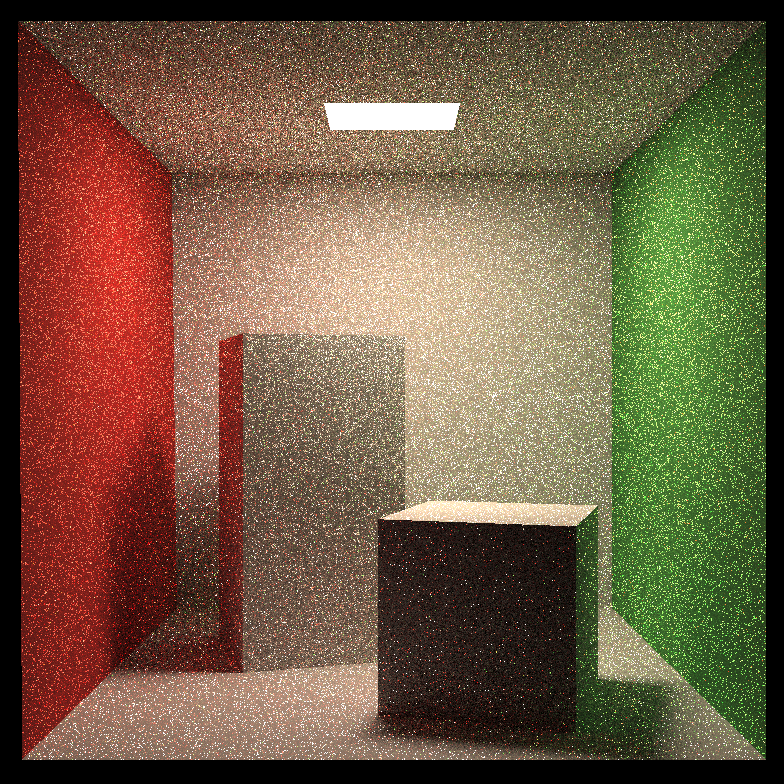
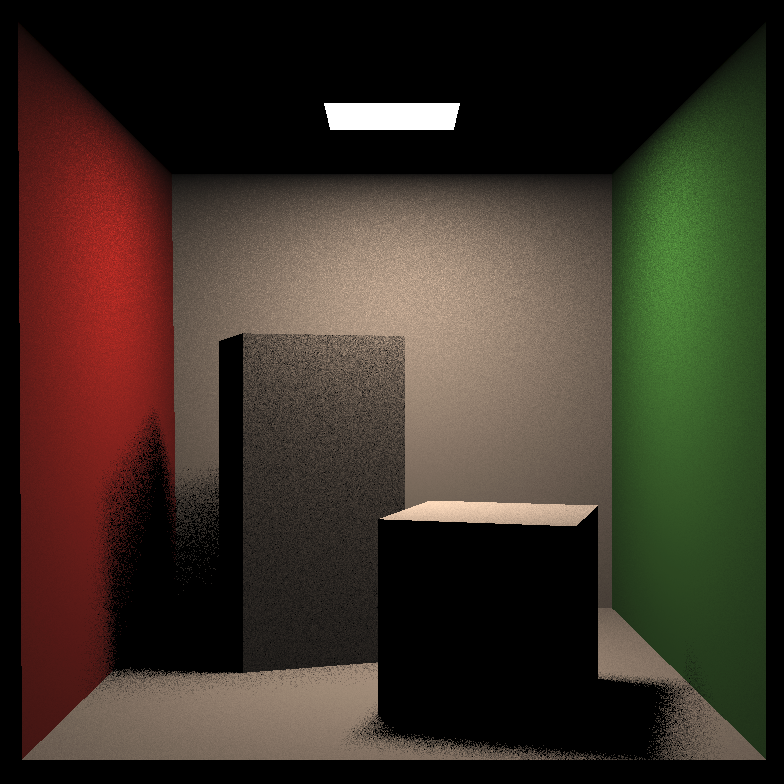
hw7

diff --git a/assignment7/Code/Scene.cpp b/assignment7/Code/Scene.cpp
@@ -3,7 +3,6 @@
 //
 
 #include "Scene.hpp"
-
 void Scene::buildBVH() {
     printf(" - Generating BVH...\n\n");
     this->bvh = new BVHAccel(objects, 1, BVHAccel::SplitMethod::NAIVE);
@@ -75,28 +74,28 @@ Vector3f Scene::shade(const Ray &ray) const
     Intersection blocked = intersect(direct_ray);
 
 
-    if(!blocked.happened || blocked.obj->hasEmit())
+    if(blocked.happened && blocked.obj->hasEmit())
     {
         // brdf of light source
 
         //here the cos_theta is zero.
         Vector3f f_r_ls = pos_on_obj.m->eval( - ray.direction, direct_ray.direction, pos_on_obj.normal);
-        float cos_theta = dotProduct(direct_ray.direction, pos_on_obj.normal);
-        float cos_theta_ = dotProduct(-direct_ray.direction, pos_on_ls.normal);
+        float cos_theta = std::max(0.0f, dotProduct(direct_ray.direction, pos_on_obj.normal));
+        float cos_theta_ = std::max(0.0f, dotProduct(-direct_ray.direction, pos_on_ls.normal));
         direct_energy = pos_on_ls.emit * f_r_ls * cos_theta * cos_theta_ / squaredNorm(pos_on_ls.coords - pos_on_obj.coords) / pdf_ls;
     }
     // Use russian Roulette to determine whether we should terminate the process
-    float p = get_random_float();
-    if(p < RussianRoulette && !pos_on_obj.obj->hasEmit())
-    {
-        Vector3f w_o = pos_on_obj.m->sample(- ray.direction, pos_on_obj.normal);
-        Vector3f f_r_obj = pos_on_obj.m->eval(- ray.direction, w_o, pos_on_obj.normal);
-        float pdf_obj = pos_on_obj.m->pdf(- ray.direction, w_o, pos_on_obj.normal);
-        Ray next_ray(pos_on_obj.coords, w_o);
-        Vector3f radiance = shade(next_ray);
-        float cos_theta = dotProduct(next_ray.direction, pos_on_obj.normal);
-        bounced_energy += f_r_obj * radiance * cos_theta / pdf_obj / RussianRoulette;
-    }
+    // float p = get_random_float();
+    // if(p < RussianRoulette && !pos_on_obj.obj->hasEmit() )
+    // {
+    //     Vector3f w_o = pos_on_obj.m->sample(- ray.direction, pos_on_obj.normal).normalized();
+    //     Vector3f f_r_obj = pos_on_obj.m->eval(- ray.direction, w_o, pos_on_obj.normal);
+    //     float pdf_obj = pos_on_obj.m->pdf(- ray.direction, w_o, pos_on_obj.normal);
+    //     Ray next_ray(pos_on_obj.coords, w_o);
+    //     Vector3f radiance = shade(next_ray);
+    //     float cos_theta = std::max(0.0f, dotProduct(next_ray.direction, pos_on_obj.normal));
+    //     bounced_energy +=  radiance * f_r_obj * cos_theta / (pdf_obj + EPSILON) / RussianRoulette;
+    // }
     return  direct_energy + bounced_energy;
 }
 // Implementation of Path Tracing

diff --git a/assignment7/Code/Renderer.cpp b/assignment7/Code/Renderer.cpp
@@ -5,7 +5,7 @@
 #include <fstream>
 #include "Scene.hpp"
 #include "Renderer.hpp"
-
+#include "omp.h"
 
 inline float deg2rad(const float& deg) { return deg * M_PI / 180.0; }
 
@@ -14,21 +14,23 @@ const float EPSILON = 0.00001;
 // The main render function. This where we iterate over all pixels in the image,
 // generate primary rays and cast these rays into the scene. The content of the
 // framebuffer is saved to a file.
-void Renderer::Render(const Scene& scene)
+void Renderer::Render(const Scene& scene, int spp)
 {
     std::vector<Vector3f> framebuffer(scene.width * scene.height);
 
     float scale = tan(deg2rad(scene.fov * 0.5));
     float imageAspectRatio = scene.width / (float)scene.height;
     Vector3f eye_pos(278, 273, -800);
-    int m = 0;
 
     // change the spp value to change sample ammount
-    int spp = 16;
+    
     std::cout << "SPP: " << spp << "\n";
-    for (uint32_t j = 0; j < scene.height; ++j) {
-        for (uint32_t i = 0; i < scene.width; ++i) {
+    for (int j = 0; j < scene.height; ++j) {
+omp_set_num_threads(8);
+#pragma omp parallel for 
+        for (int i = 0; i < scene.width; ++i) {
             // generate primary ray direction
+            int m = j * scene.width + i;
             float x = (2 * (i + 0.5) / (float)scene.width - 1) *
                       imageAspectRatio * scale;
             float y = (1 - 2 * (j + 0.5) / (float)scene.height) * scale;
@@ -38,14 +40,14 @@ void Renderer::Render(const Scene& scene)
             for (int k = 0; k < spp; k++){
                 framebuffer[m] += scene.castRay(Ray(eye_pos, dir), 0) / spp;  
             }
-            m++;
+            
         }
         UpdateProgress(j / (float)scene.height);
     }
     UpdateProgress(1.f);
 
     // save framebuffer to file
-    FILE* fp = fopen("binary.ppm", "wb");
+    FILE* fp = fopen(("binary_"+std::to_string(spp)+".ppm").c_str(), "wb");
     (void)fprintf(fp, "P6\n%d %d\n255\n", scene.width, scene.height);
     for (auto i = 0; i < scene.height * scene.width; ++i) {
         static unsigned char color[3];

diff --git a/assignment7/Code/main.cpp b/assignment7/Code/main.cpp
@@ -15,7 +15,8 @@ int main(int argc, char** argv)
 
     // Change the definition here to change resolution
     Scene scene(784, 784);
-
+    int spp = 1;
+    if(argc>1) spp = atoi(argv[1]);
     Material* red = new Material(DIFFUSE, Vector3f(0.0f));
     red->Kd = Vector3f(0.63f, 0.065f, 0.05f);
     Material* green = new Material(DIFFUSE, Vector3f(0.0f));
@@ -44,7 +45,7 @@ int main(int argc, char** argv)
     Renderer r;
 
     auto start = std::chrono::system_clock::now();
-    r.Render(scene);
+    r.Render(scene, spp);
     auto stop = std::chrono::system_clock::now();
 
     std::cout << "Render complete: \n";

diff --git a/assignment7/Code/global.hpp b/assignment7/Code/global.hpp
@@ -28,12 +28,11 @@ inline  bool solveQuadratic(const float &a, const float &b, const float &c, floa
     return true;
 }
 
+static std::random_device dev;
+static std::mt19937 rng(dev());
+static std::uniform_real_distribution<float> dist(0.f, 1.f); // distribution in range [1, 6]
 inline float get_random_float()
 {
-    std::random_device dev;
-    std::mt19937 rng(dev());
-    std::uniform_real_distribution<float> dist(0.f, 1.f); // distribution in range [1, 6]
-
     return dist(rng);
 }
 

diff --git a/assignment7/Code/Renderer.hpp b/assignment7/Code/Renderer.hpp
@@ -15,7 +15,7 @@ struct hit_payload
 class Renderer
 {
 public:
-    void Render(const Scene& scene);
+    void Render(const Scene& scene, int spp = 1);
 
 private:
 };

diff --git a/README.md b/README.md
@@ -14,4 +14,25 @@ This is a collection of the assignments of [Games 101](https://sites.cs.ucsb.edu
 ### 6. Ray Tracing (2, BVH)
 ![](./images/hw6.png)
 ### 7. Ray Tracing (3, Path Tracing)
+Using openmp and static random engine for acceleration
+- SPP: 4 (Only direct illumination is considered)
+
 ![](./images/hw7.png)
+
+- SPP: 4 (global illumination)
+
+![](./images/hw7_4.png)
+
+- SPP: 16
+
+![](./images/hw7_16.png)
+
+- SPP: 64
+
+![](./images/hw7_64.png)
+
+- SPP: 256
+
+![](./images/hw7_256.png)
+
+The result is still noisy, and will be fixed in latter days.
